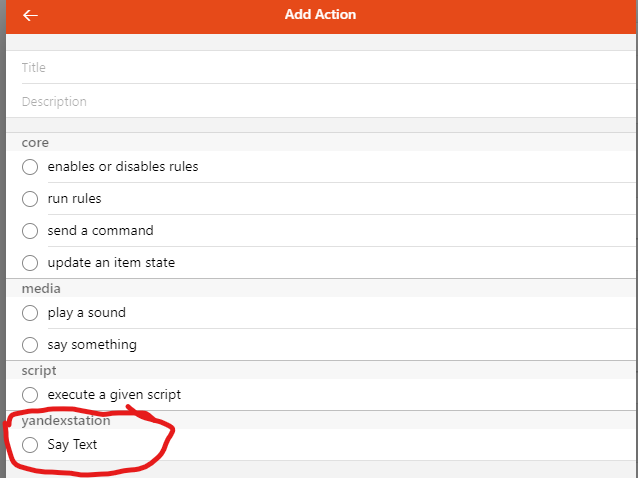
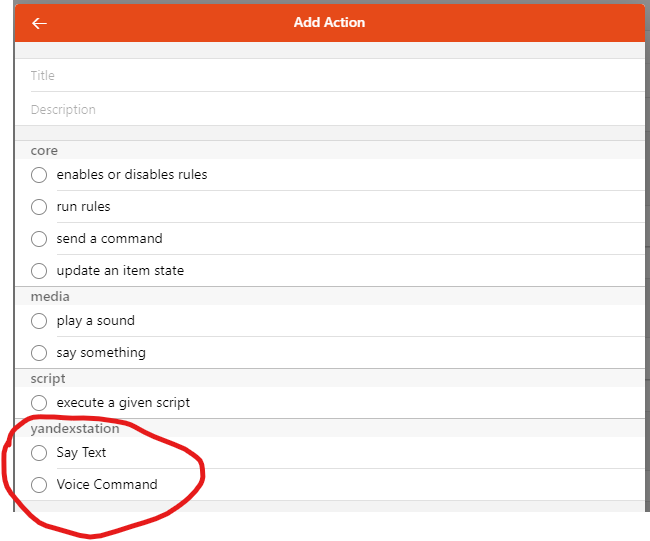
[YandexStation] added 'prevent listening' for Say Text action

Changed region(s): [[0.0, 0.0, 1.0, 1.0]]

diff --git a/README.md b/README.md
@@ -105,7 +105,11 @@ Channel `coverURI` содержит ссылку
 ## Rule Actions
 
 В конструкторе правил в секции _**Then Action**_ при нажатии _**Show All**_ доступен блок _**YandexStation**_ и действия:
-* Say Text
++ Say Text - произнести текст
+    + Whisper - произнести текст шепотом
+    + Voice - произнести текст голосом (нужно указать код голоса - https://cloud.yandex.com/en-ru/docs/speechkit/tts/voices значение из столбца Voice)
+    + Prevent Listening - не ждать ответа (возможно, не работает?)
++ Voice Command - выполнить команду
 
 ![](docs/images/then-action-01.png)
 
